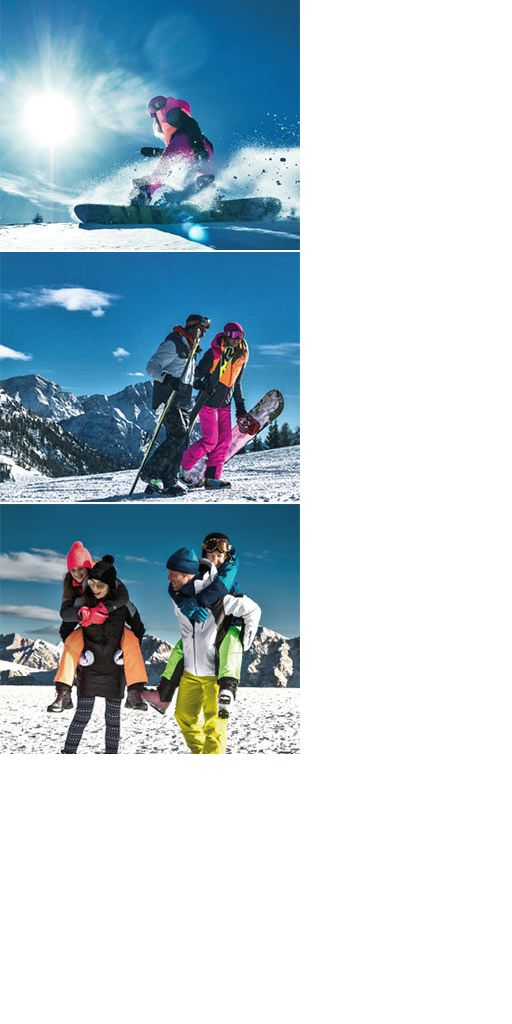
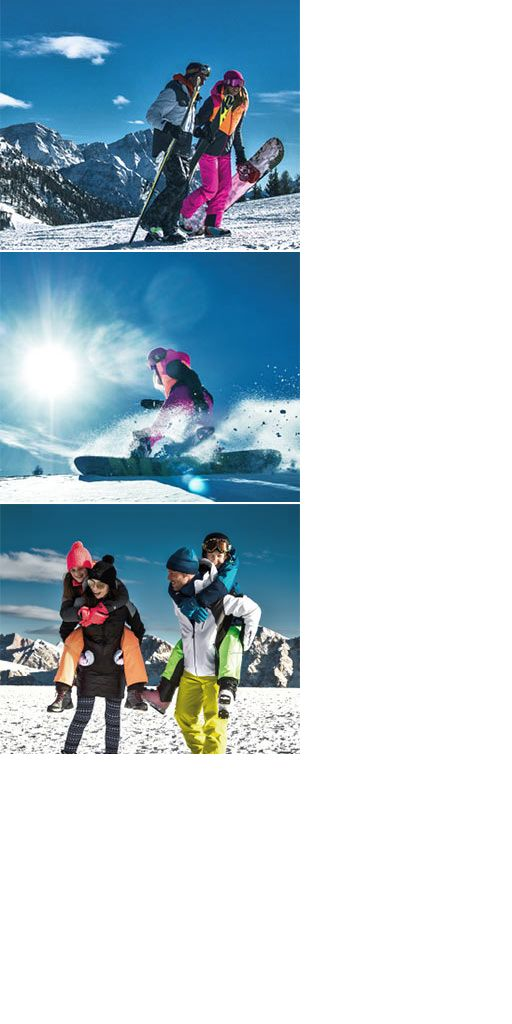
Update

Changed region(s): [[0.0, 0.0, 0.5938, 0.5]]

diff --git a/banners/icepeak2/yandex/300x250/300x250.js b/banners/icepeak2/yandex/300x250/300x250.js
@@ -2,7 +2,7 @@
 
 var p; // shortcut to reference prototypes
 lib.ssMetadata = [
-		{name:"300x250_atlas_NP_", frames: [[0,504,300,250],[0,252,300,250],[0,0,300,250]]}
+		{name:"300x250_atlas_NP_", frames: [[0,504,300,250],[0,0,300,250],[0,252,300,250]]}
 ];
 
 
@@ -576,14 +576,14 @@ function getMCSymbolPrototype(symbol, nominalBounds, frameBounds) {
 	this.instance_9.setTransform(120,190);
 	this.instance_9.alpha = 0;
 
-	this.timeline.addTween(cjs.Tween.get(this.instance_9).to({alpha:1},84,cjs.Ease.get(1)).wait(1).to({alpha:0},77,cjs.Ease.get(1)).to({_off:true},1).wait(85));
+	this.timeline.addTween(cjs.Tween.get(this.instance_9).to({alpha:1},12,cjs.Ease.get(1)).wait(73).to({alpha:0},40,cjs.Ease.get(1)).to({_off:true},38).wait(85));
 
 	// Символ 2
 	this.instance_10 = new lib.etgrt();
 	this.instance_10.parent = this;
 	this.instance_10.setTransform(120,170);
 
-	this.timeline.addTween(cjs.Tween.get(this.instance_10).to({alpha:0},84,cjs.Ease.get(0.5)).to({_off:true},1).wait(78).to({_off:false},0).to({alpha:1},84,cjs.Ease.get(1)).wait(1));
+	this.timeline.addTween(cjs.Tween.get(this.instance_10).to({alpha:0},12,cjs.Ease.get(0.5)).to({_off:true},73).wait(78).to({_off:false},0).to({alpha:1},16,cjs.Ease.get(1)).wait(69));
 
 	// Символ 1
 	this.instance_11 = new lib.err();
@@ -591,7 +591,7 @@ function getMCSymbolPrototype(symbol, nominalBounds, frameBounds) {
 	this.instance_11.setTransform(120,200);
 	this.instance_11._off = true;
 
-	this.timeline.addTween(cjs.Tween.get(this.instance_11).wait(85).to({_off:false},0).wait(78).to({alpha:0},84,cjs.Ease.get(0.5)).wait(1));
+	this.timeline.addTween(cjs.Tween.get(this.instance_11).wait(85).to({_off:false},0).wait(78).to({alpha:0},16,cjs.Ease.get(0.5)).wait(69));
 
 }).prototype = p = new cjs.MovieClip();
 p.nominalBounds = new cjs.Rectangle(149.5,124.4,340.1,251);
@@ -603,8 +603,8 @@ lib.properties = {
 	color: "#FFFFFF",
 	opacity: 1.00,
 	manifest: [
-		{src:"images/legal.png?1508343564950", id:"legal"},
-		{src:"images/300x250_atlas_NP_.jpg?1508343564927", id:"300x250_atlas_NP_"}
+		{src:"images/legal.png?1508362380591", id:"legal"},
+		{src:"images/300x250_atlas_NP_.jpg?1508362380554", id:"300x250_atlas_NP_"}
 	],
 	preloads: []
 };

diff --git a/banners/icepeak2/yandex/300x250/300x250.html b/banners/icepeak2/yandex/300x250/300x250.html
@@ -14,7 +14,7 @@
 <title>300x250</title>
 <!-- write your code here -->
 <script src="https://code.createjs.com/createjs-2015.11.26.min.js"></script>
-<script src="300x250.js?1508343564952"></script>
+<script src="300x250.js?1508362380593"></script>
 <script>
 var canvas, stage, exportRoot, anim_container, dom_overlay_container, fnStartAnimation;
 function init() {
